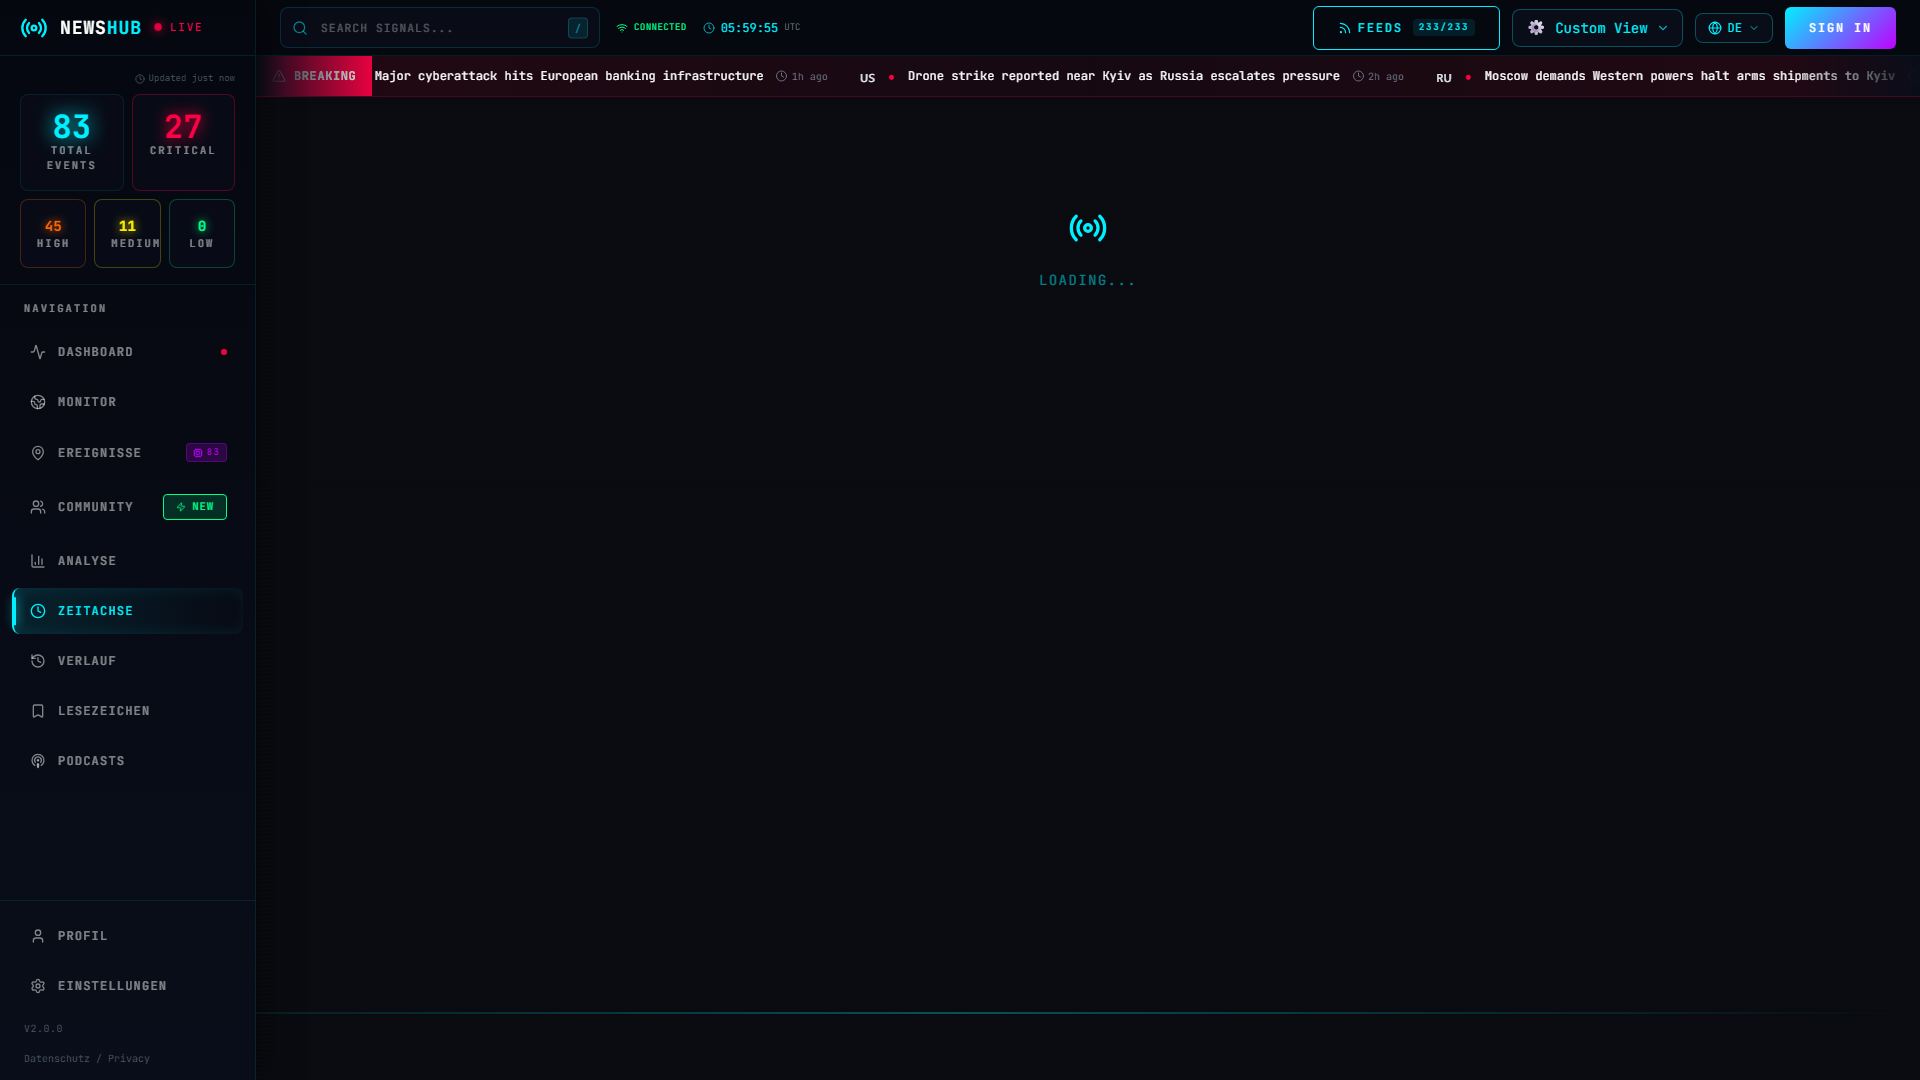
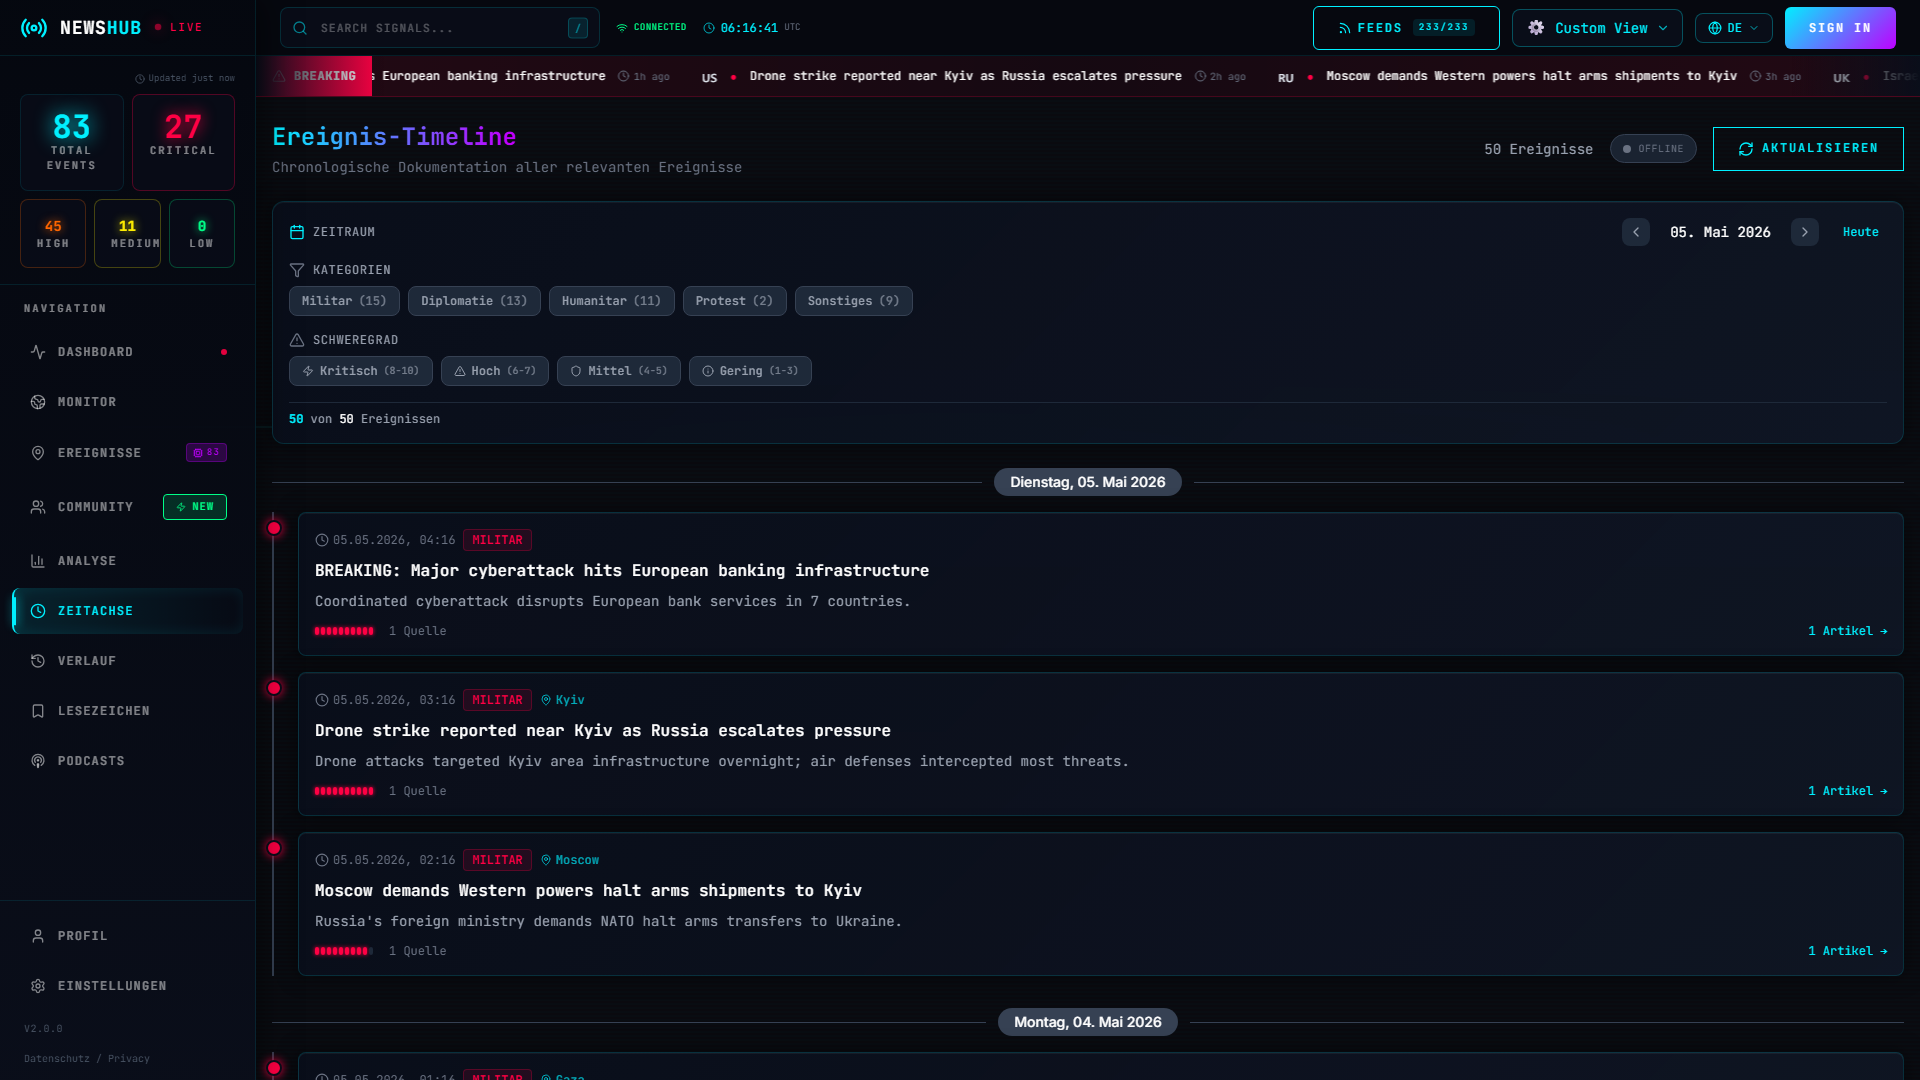
docs(screenshots): re-capture timeline with real event data
The previous timeline.png snuck through with the page still in its
"LOADING..." state — the 8s wait fired before /api/news?limit=500
returned and event extraction ran. Spec now waits for the first event
card via expect(...).toBeVisible({timeout: 30000}) before screenshotting,
producing a populated chronological event list (BREAKING cyberattack,
Kyiv drone strike, Moscow arms-shipment demand, etc.) grouped by date
with severity/category filter pills visible at the top.

diff --git a/apps/web/e2e/screenshots.spec.ts b/apps/web/e2e/screenshots.spec.ts
@@ -85,7 +85,12 @@ test.describe('README Screenshots', () => {
   test('capture timeline', async ({ page }) => {
     await page.goto('/timeline');
     await page.waitForLoadState('domcontentloaded');
-    await page.waitForTimeout(8000);
+    // Timeline aggregates events from /api/news?limit=500 + extracts events server-side;
+    // the loader stays up until the first event card is rendered
+    await expect(page.locator('article, [class*="EventCard"], [class*="timeline-event"]').first())
+      .toBeVisible({ timeout: 30000 })
+      .catch(() => {});
+    await page.waitForTimeout(4000);
     await page.screenshot({ path: `${SCREENSHOT_DIR}/timeline.png`, fullPage: false });
   });
 
